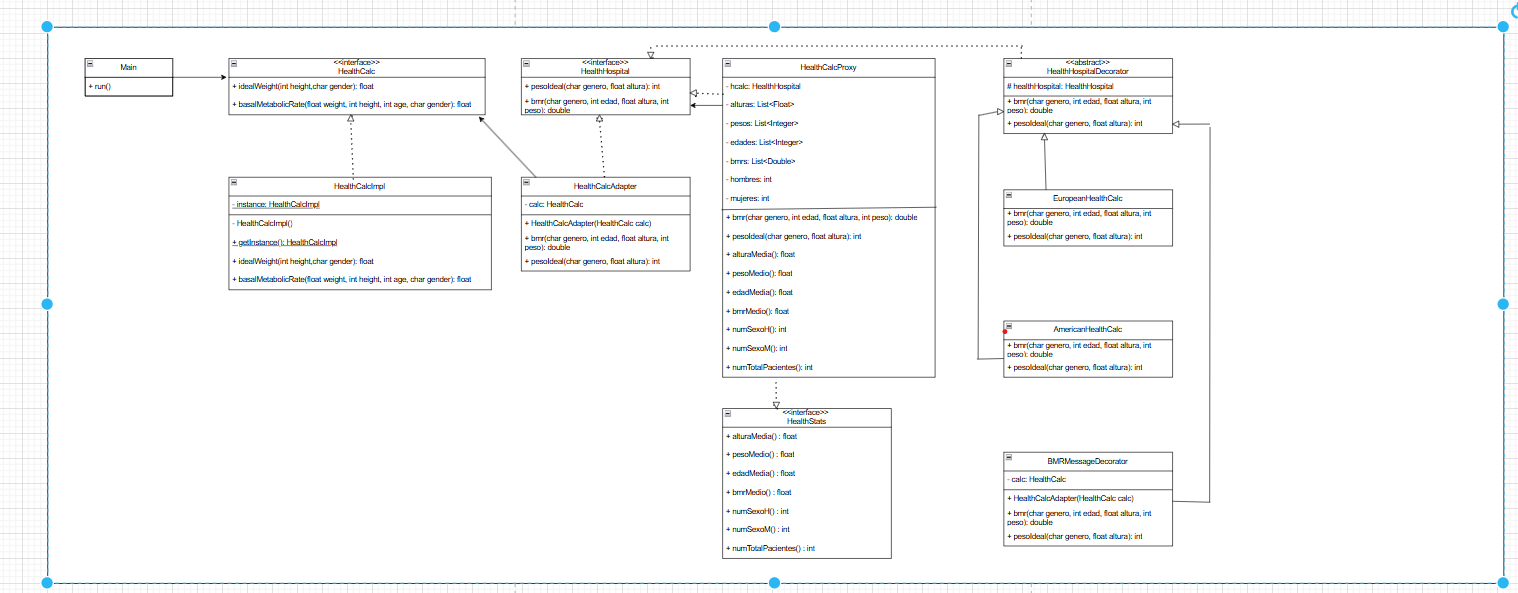
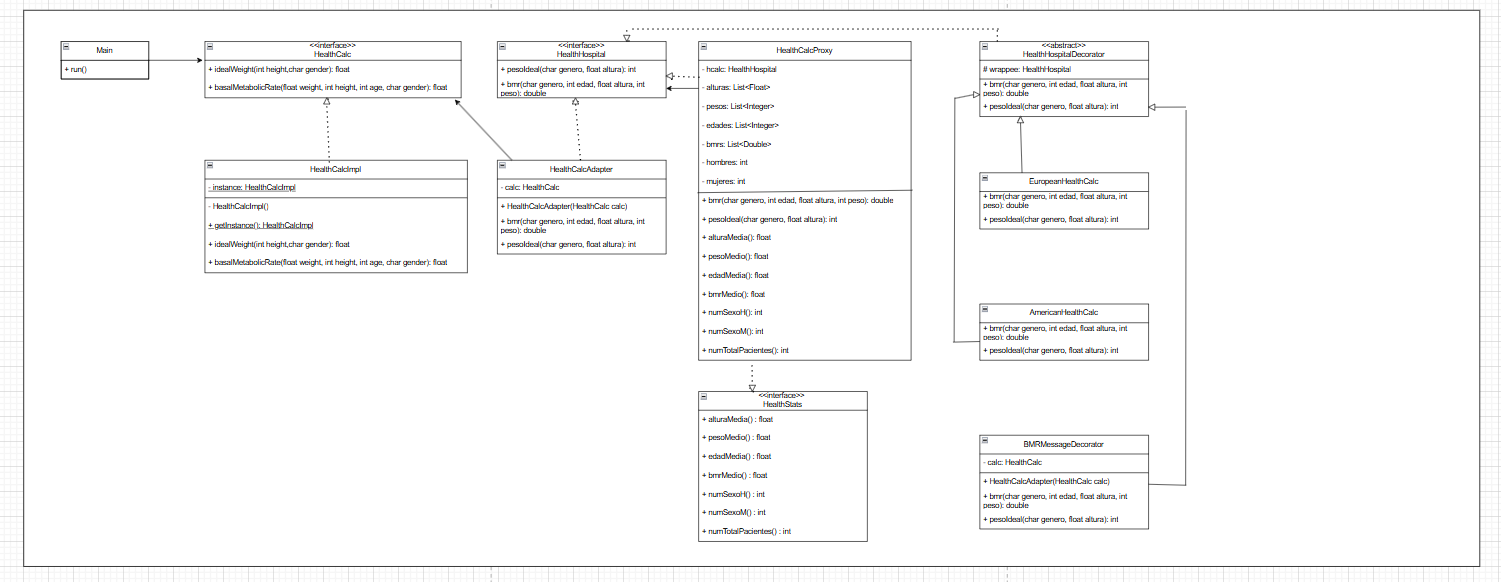
fix: commit to fix an error in UML_decorator.png

diff --git a/projectHealthcalc/src/main/java/healthcalc/HealthHospitalDecorator.java b/projectHealthcalc/src/main/java/healthcalc/HealthHospitalDecorator.java
@@ -1,0 +1,19 @@
+package healthcalc;
+
+public abstract class HealthHospitalDecorator implements HealthHospital {
+    protected HealthHospital wrappee;
+
+    public HealthHospitalDecorator(HealthHospital wrappee) {
+        this.wrappee = wrappee;
+    }
+
+    @Override
+    public int pesoIdeal(char genero, float altura) {
+        return wrappee.pesoIdeal(genero, altura);
+    }
+
+    @Override
+    public double bmr(char genero, int edad, float altura, int peso) {
+        return wrappee.bmr(genero, edad, altura, peso);
+    }
+}
